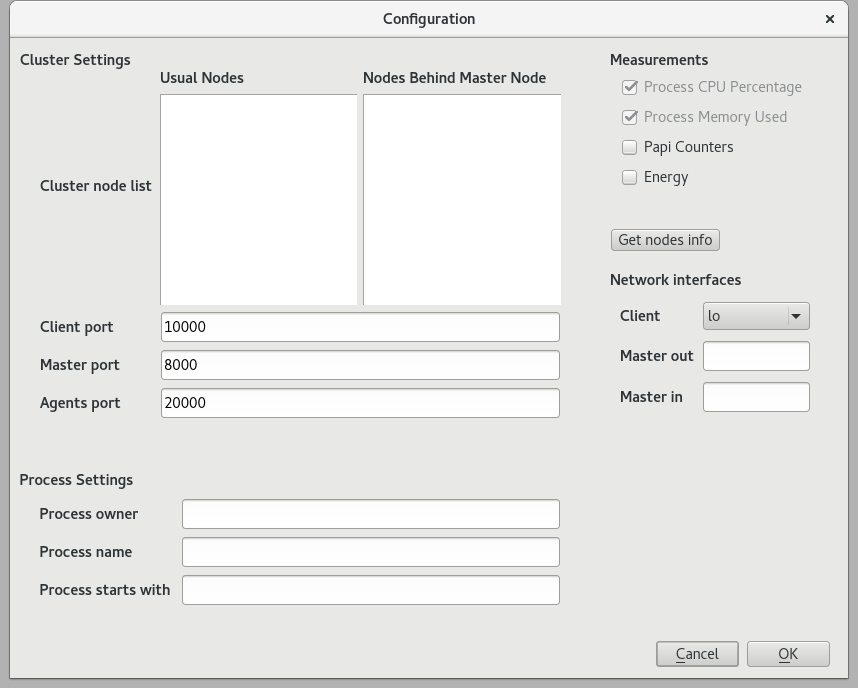
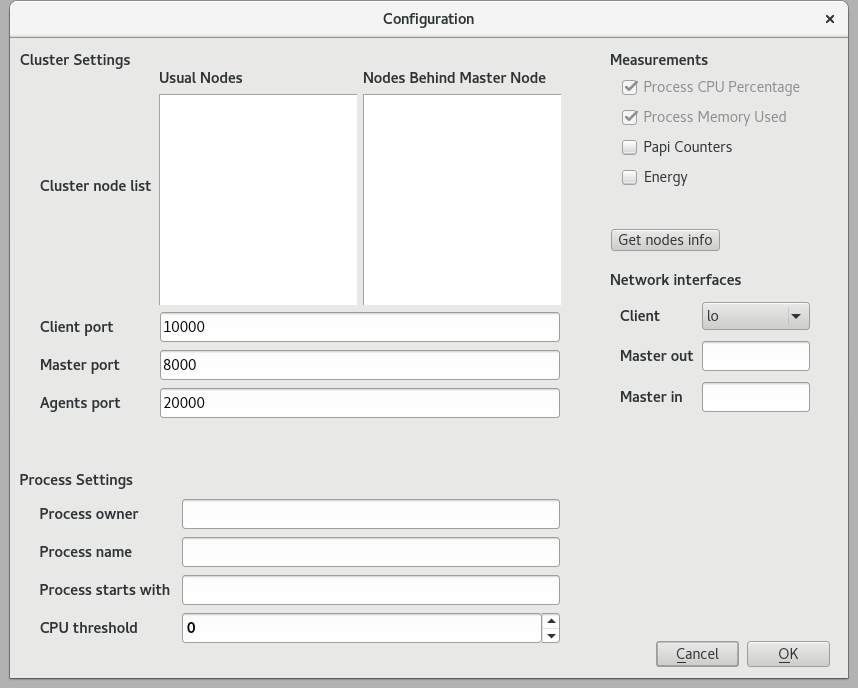
Updated documentation with CPU threshold value

diff --git a/README.md b/README.md
@@ -56,6 +56,7 @@ Common requirements for the three programs are a Linux 64 bit distribution. Indi
 ### MonitoringAgent ###
 
 * *procps* development libraries. In Debian, *libprocps4-dev*, in CentOs, *procps-devel.x86_64*.
+* [PAPI][6] library.
 * C++11.
 
 
@@ -125,7 +126,7 @@ Here we will insert the characteristics of the process that we want to gather in
 
 **Process starts with**: A string that indicates the beginning of the process name we are looking for
 
-
+**CPU threshold**: The agents will only look for processes above this CPU percentage. (Default: 0)
 
 # Deploying CPM #
 
@@ -258,3 +259,4 @@ Depending on the Linux distribution the name of the library can change. For exam
 [3]: https://www.vampir.eu/
 [4]: http://www.qt.io/
 [5]: https://www.libssh.org/
+[6]: http://icl.cs.utk.edu/papi/
